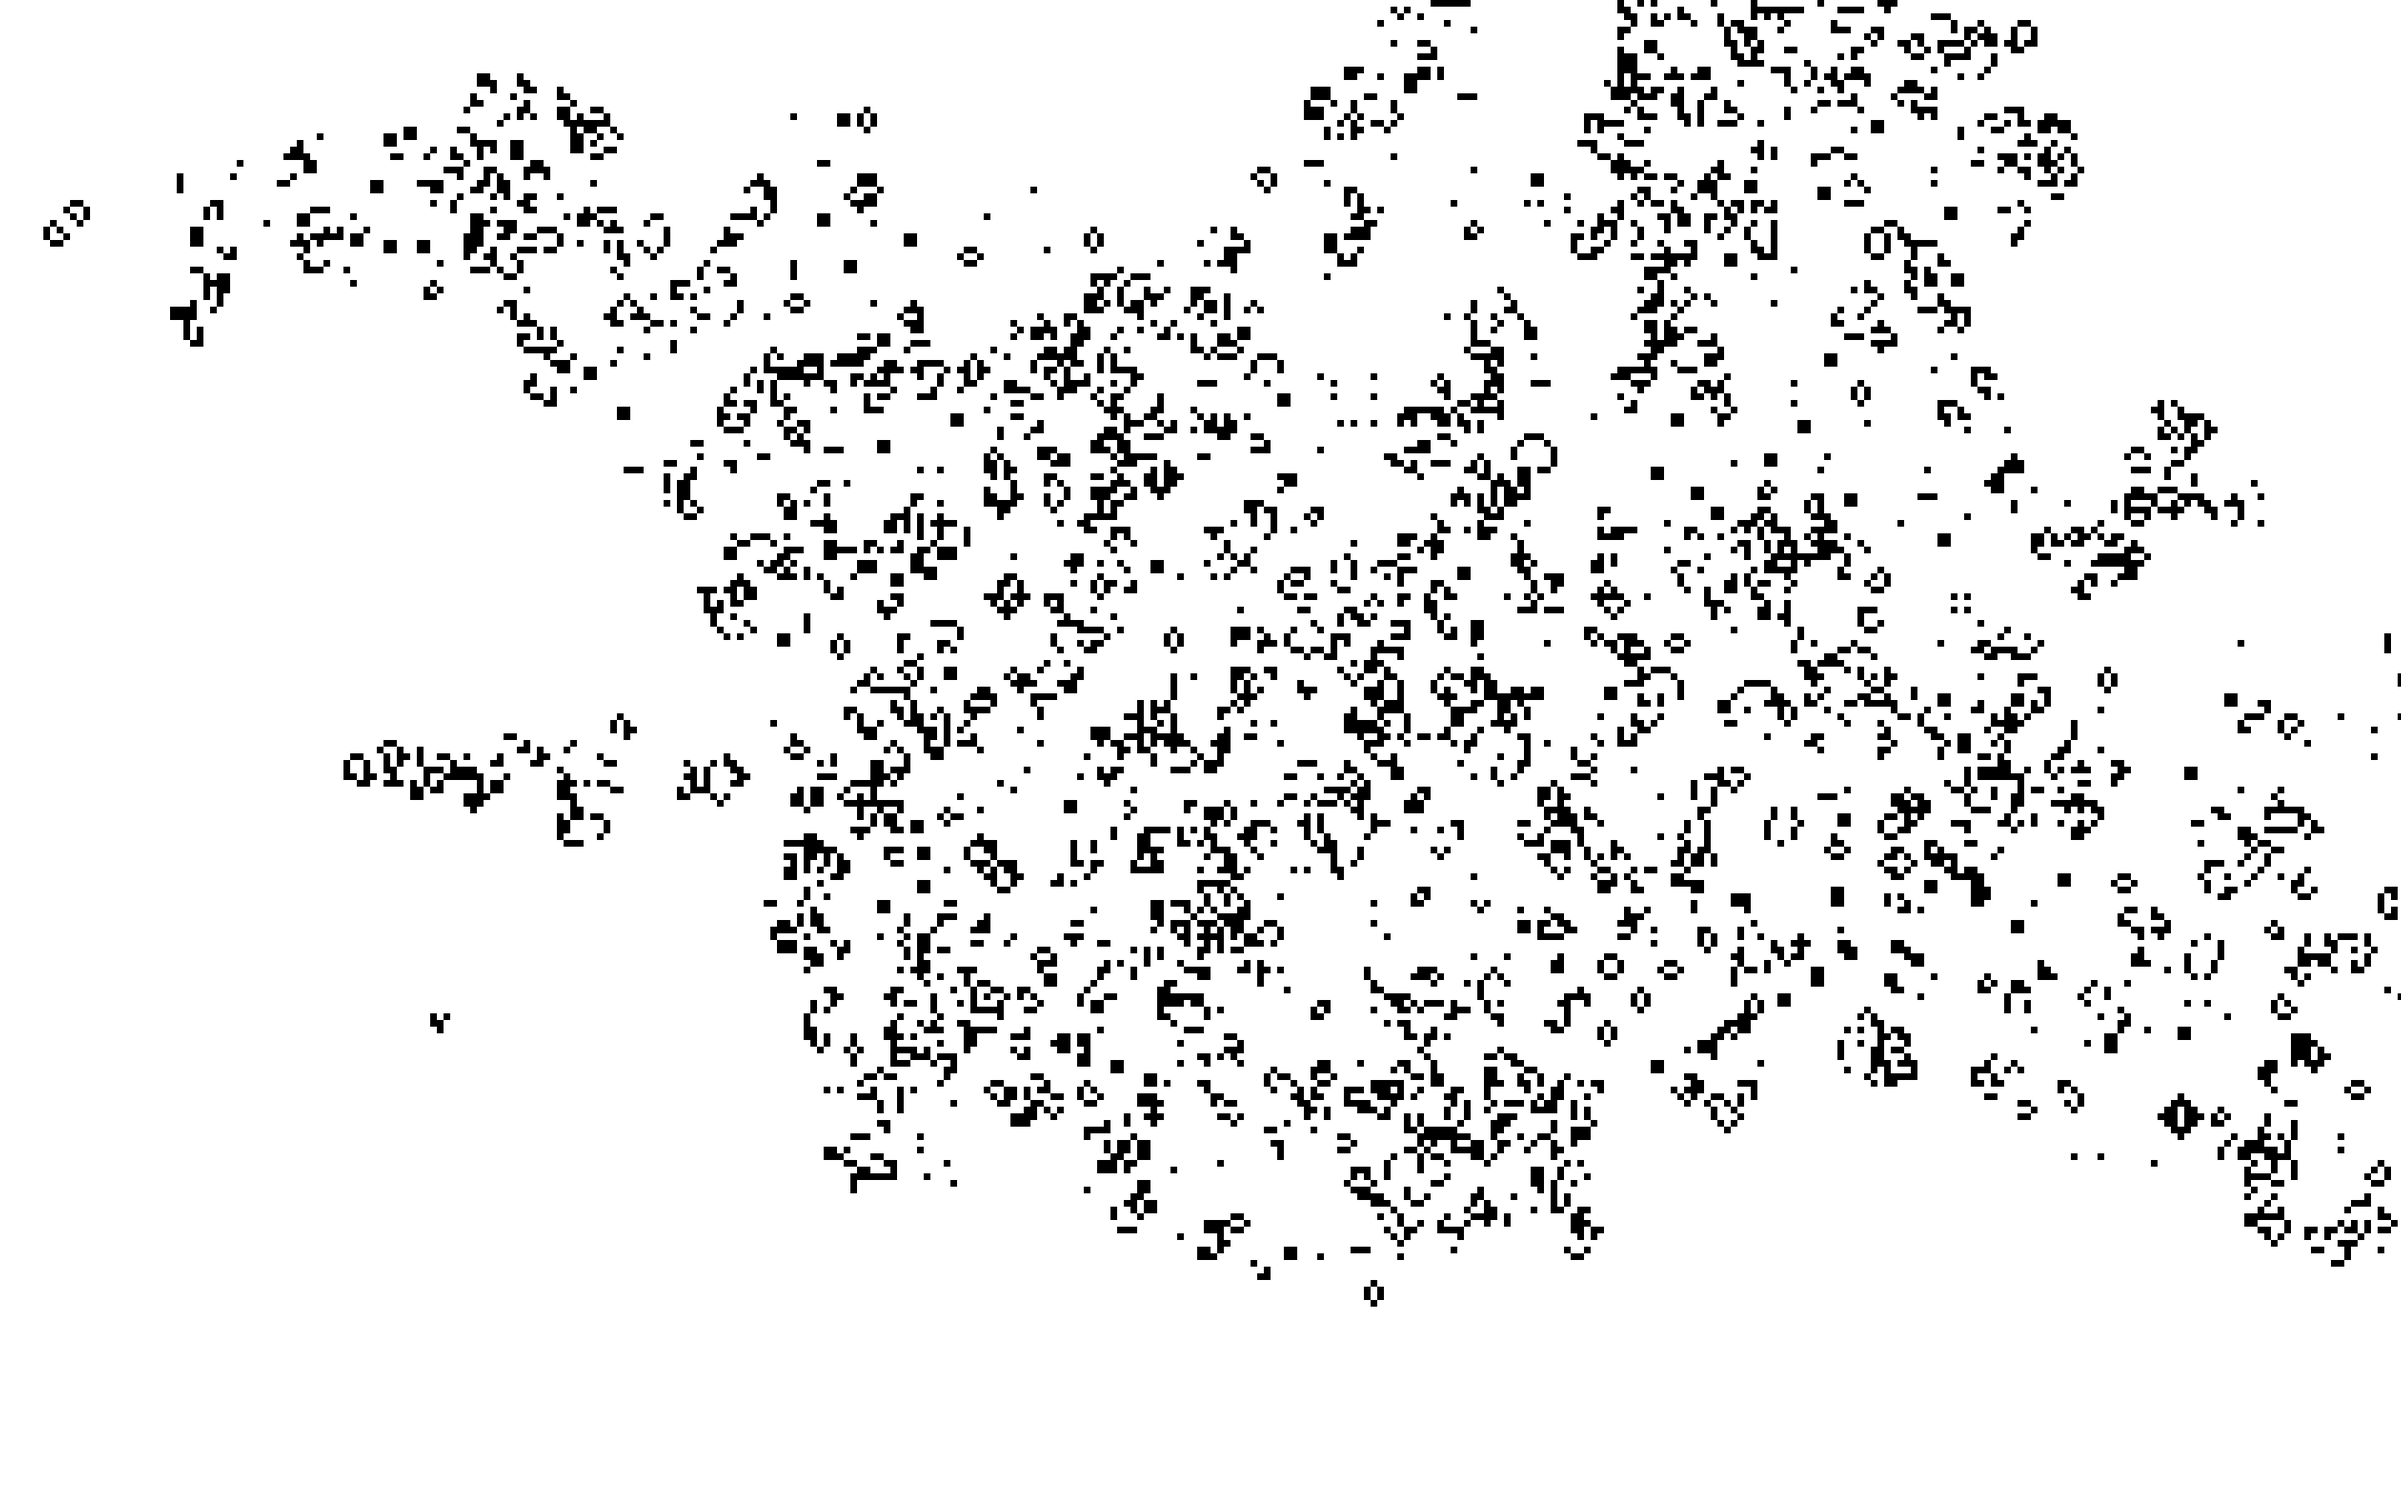
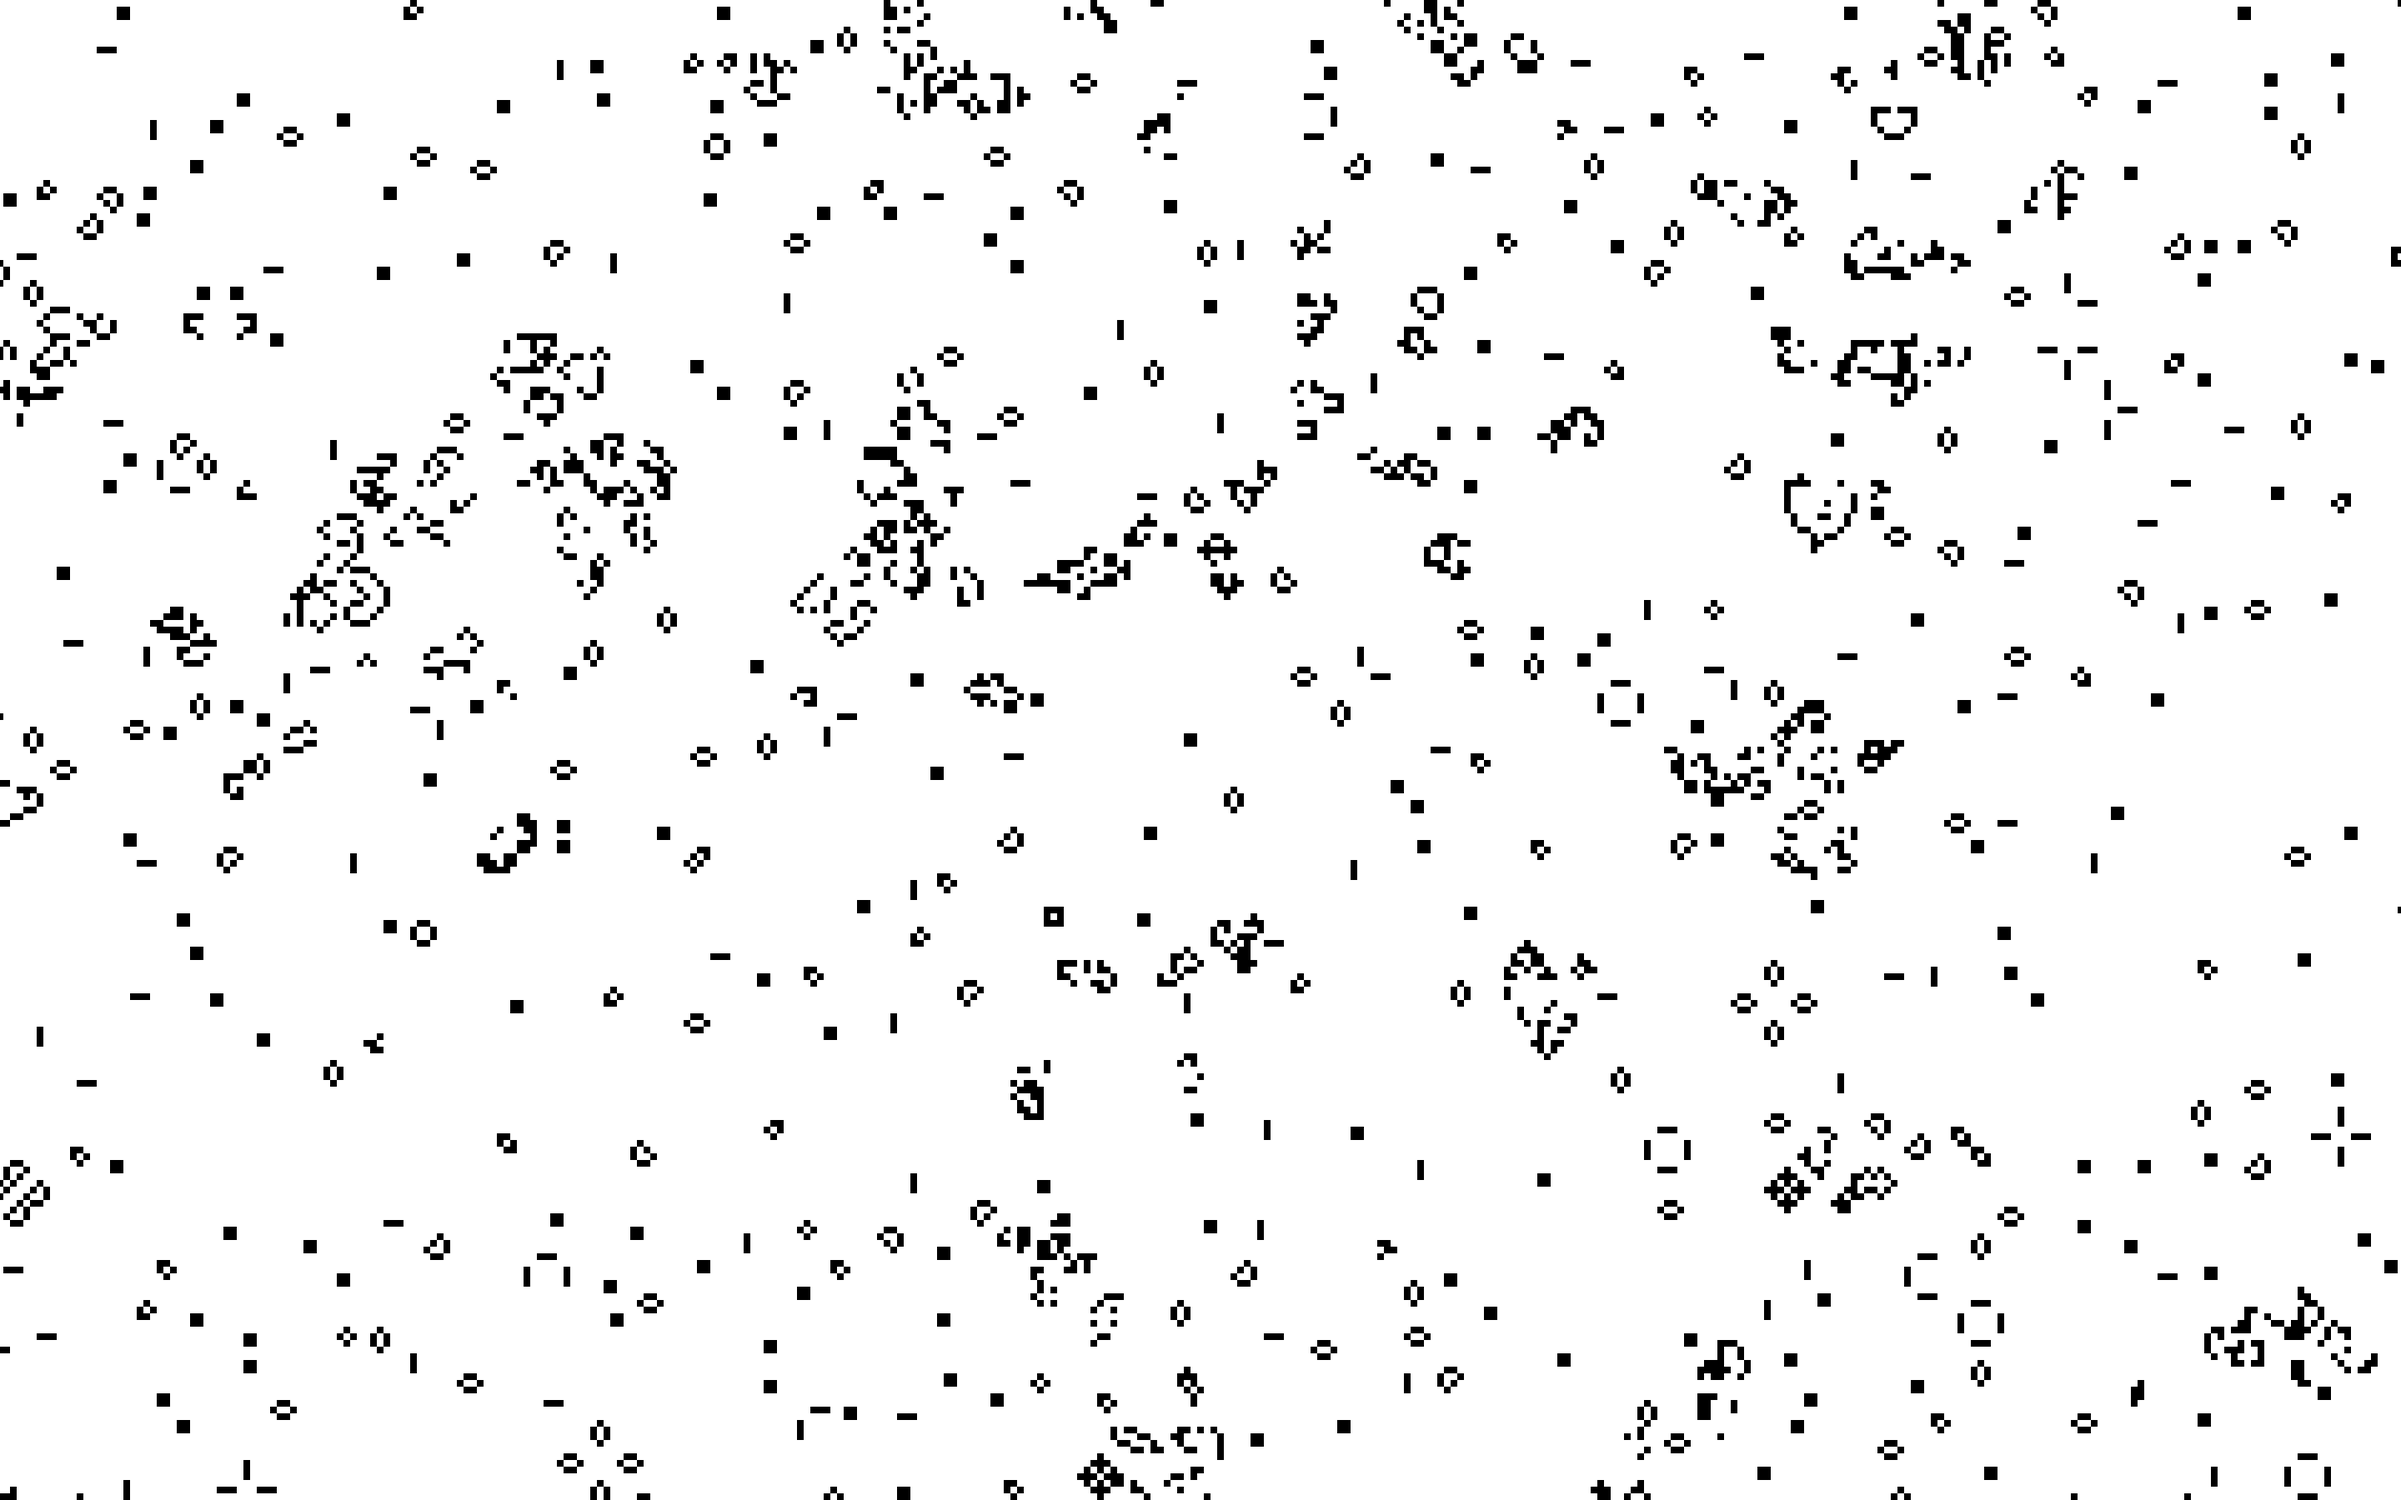
Add reset command. Fix bug in despawn code. Minor improvements.
- Reset command allows sim to be reset while running.
- Missing case in despawn logic did not identify cells with no neighbors
  as targets to despawn. This led to more activity than intended.
- Change position coords from i32 to i16 to reduce memory footprint.
- Greatly increased world radius.

diff --git a/src/main.rs b/src/main.rs
@@ -8,12 +8,13 @@ use rand::prelude::*;
 use std::collections::HashMap;
 use std::collections::HashSet;
 
-const CELL_SIZE: i32 = 4;
-const INITIAL_GRID_DIM: i32 = 64;
-const WORLD_RADIUS: f32 = 1000.0;
+const CELL_SIZE: i16 = 4;
+const INITIAL_GRID_DIM: i16 = 512;
+const WORLD_RADIUS: f32 = 1_000_000.0;
 
 #[derive(Debug, Clone, Eq, PartialEq, Hash)]
 enum AppState {
+    Init,
     Running,
     Paused
 }
@@ -37,8 +38,8 @@ enum Direction {
 #[derive(PartialEq, Eq, Hash, Copy, Clone, Component)]
 #[component(storage = "SparseSet")]
 struct GridPosition {
-    x: i32,
-    y: i32,
+    x: i16,
+    y: i16,
 }
 
 #[derive(Default)]
@@ -59,6 +60,13 @@ impl GridPosition {
             Direction::SouthWest => GridPosition { x: self.x - CELL_SIZE, y: self.y - CELL_SIZE },
             Direction::West => GridPosition { x: self.x - CELL_SIZE, y: self.y },
         }
+    }
+}
+
+fn dead(pos: &GridPosition, neighbors: &HashMap<GridPosition, u8>, lower: u8, upper: u8) -> bool {
+    match neighbors.get(pos) {
+        Some(count) => *count < lower || *count > upper,
+        None => true,
     }
 }
 
@@ -115,48 +123,34 @@ fn despawn_system(
     query: Query<(Entity, &GridPosition)>
 ) {
     for (id, pos) in query.iter() {
-        let mut despawn = false;
         let vec = Vec2::new(pos.x as f32, pos.y as f32);
-        if vec.length() > WORLD_RADIUS {
-            despawn = true;
-        }
-        else if let Some(count) = game_state.neighbors.get(pos) {
-            if *count < game_rules.lower || *count > game_rules.upper {
-                despawn = true;
-            }
-        }
-
-        if despawn {
+        if vec.length() > WORLD_RADIUS || dead(pos, &game_state.neighbors, game_rules.lower, game_rules.upper) {
             commands.entity(id).despawn();
         }
     }
 }
 
-fn setup(
-    mut commands: Commands,
-) {
+fn setup(mut commands: Commands) {
+    commands.spawn_bundle(OrthographicCameraBundle::new_2d());
+}
+
+fn init_system(mut commands: Commands, mut state: ResMut<State<AppState>>, mut game_state: ResMut<GridState>, query: Query<Entity, With<GridPosition>> ) {
     let cell_size = CELL_SIZE;
     let dim = INITIAL_GRID_DIM;
     let half_width = dim * cell_size / 2;
     let half_height = dim * cell_size / 2;
 
-    commands.spawn_bundle(OrthographicCameraBundle::new_2d());
+    game_state.neighbors.clear();
+    game_state.cells.clear();   
 
-    commands.insert_resource(GameRules {
-        lower: 2,
-        upper: 3,
-    });
-
-    commands.insert_resource(GridState {
-        neighbors: HashMap::new(),
-        cells: HashSet::new(),
-    });
+    for id in query.iter() {
+        commands.entity(id).despawn();
+    }
 
     for i in 0..dim {
         for j in 0..dim {
-            let spawn_chance: f32 = random();
 
-            if spawn_chance < 0.95 { continue; }
+            if random() { continue; }
 
             let x = (cell_size * i - half_width) as f32;
             let y = (cell_size * j - half_height) as f32;
@@ -170,9 +164,11 @@ fn setup(
                 transform: Transform::from_translation(Vec3::new(x, y, 0.0)),
                 ..Default::default()
             })
-            .insert(GridPosition { x: x as i32, y: y as i32});
+            .insert(GridPosition { x: x as i16, y: y as i16});
         }
     }
+
+    state.set(AppState::Running).unwrap();
 }
 
 fn zoom_system(mut query: Query<&mut OrthographicProjection>, keyboard_input: Res<Input<KeyCode>>) {
@@ -212,18 +208,33 @@ fn pause_system(mut state: ResMut<State<AppState>>, keyboard_input: Res<Input<Ke
         match state.current() {
             &AppState::Running => { state.set(AppState::Paused).unwrap(); }
             &AppState::Paused => { state.set(AppState::Running).unwrap(); }
+            _ => {}
         }
+    }
+}
+
+fn reset_system(mut state: ResMut<State<AppState>>, keyboard_input: Res<Input<KeyCode>>) {
+    if keyboard_input.just_pressed(KeyCode::R) {
+        state.set(AppState::Init).unwrap();
     }
 }
 
 fn main() {
     App::new()
-        .add_state(AppState::Running)
+        .add_state(AppState::Init)
         .add_system_set(SystemSet::on_update(AppState::Running)
-            .with_system(count_neighbors_system)
-            .with_system(spawn_system)
-            .with_system(despawn_system))
+            .with_system(count_neighbors_system.label("count"))
+            .with_system(spawn_system.after("count"))
+            .with_system(despawn_system.after("count")))
         .insert_resource(ClearColor(Color::WHITE))
+        .insert_resource(GameRules {
+            lower: 2,
+            upper: 3,
+        })
+        .insert_resource(GridState {
+            neighbors: HashMap::new(),
+            cells: HashSet::new(),
+        })
         .add_plugins(DefaultPlugins)
         .add_plugin(EntityCountDiagnosticsPlugin::default())
         .add_plugin(FrameTimeDiagnosticsPlugin::default())
@@ -232,5 +243,8 @@ fn main() {
         .add_system(zoom_system)
         .add_system(camera_move_system)
         .add_system(pause_system)
+        .add_system(reset_system)
+        .add_system_set(SystemSet::on_enter(AppState::Init)
+            .with_system(init_system))
         .run();
 }

diff --git a/README.md b/README.md
@@ -14,15 +14,20 @@ This is an implementation of [Conway's Game of Life](https://en.wikipedia.org/wi
 | A | Move the camera left. |
 | S | Move the camera down. |
 | D | Move the camera right. |
+| R | Reset the simulation. |
 | Space | Pause / unpause the simulation. |
 
 # Systems
 
-This example uses 7 ECS systems. The first system, a setup system, randomly generates the initial state. The remaining systems implement the game logic. Two systems (spawn_system and despawn_system) are dependent on another system (count_neighbors_system), but are independent of each other.
+This section briefly describes each of the systems.
 
 ## Setup System
 
-The setup system populates an initial finite grid of cells. Any cell that is randomly determined to be "alive" gets a sprite and a GridPosition component. Sometimes the initial state won't be "interesting" enough to exhibit dynamic behavior. If this happens, simply restart the app. If you find yourself doing this too often, you can modify the chance that a cell will be granted life.
+This used to initialize the simulation after setting up the scene, but now just does the latter. The sim initialization logic was moved to another system that can be run more than once to allow for resetting the sim while the app is running.
+
+## Init System
+
+The init system populates an initial finite grid of cells. Any cell that is randomly determined to be "alive" gets a sprite and a GridPosition component. Sometimes the initial state won't be "interesting" enough to exhibit dynamic behavior. If this happens, simply reset the simulation with the `R` key. If you find yourself doing this too often, you can modify the chance that a cell will be granted life.
 
 ## Simulation System Set
 
@@ -51,6 +56,10 @@ The camera zoom level is controlled by this system, which runs on each `Orthogra
 ### Camera Move System
 
 The camera move system updates the `Transform` component on entities that also have the `OrthographicProjection` component.
+
+## Reset System
+
+This system simply sets the app state to `AppState::Init`, which will reinitialize the simulation.
 
 ### Pause System
 
